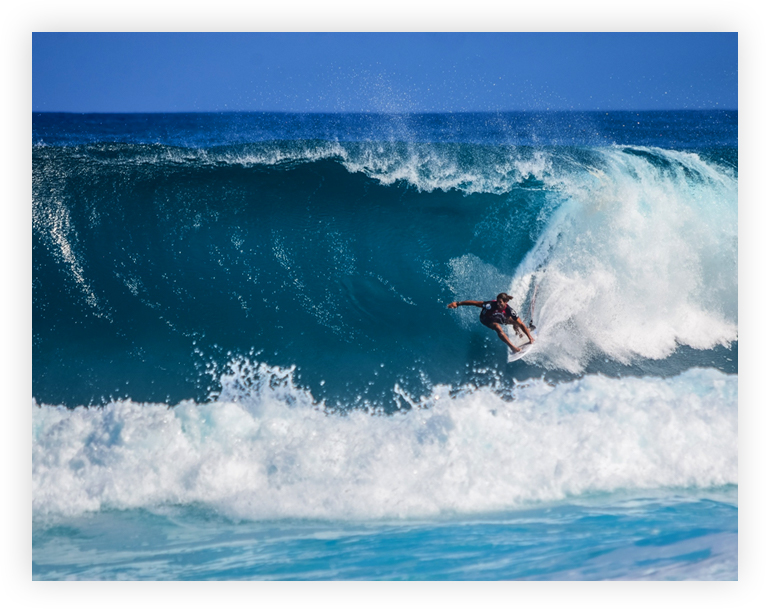
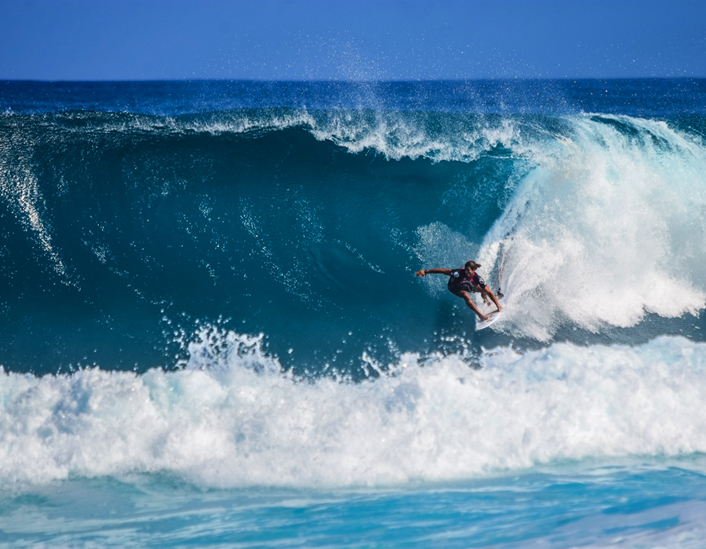
set media overal style

diff --git a/src/index.html b/src/index.html
@@ -67,7 +67,8 @@
                             <div class="c-slider__content">
                                 <p class="u-league u-league--blue">your</p>
                                 <h3 class="c-slider__title">beautiful escape</h3>
-                                <p class="c-slider__cap">One of the greatest things about the sport of surfing is that you need only three
+                                <p class="c-slider__cap">One of the greatest things about the sport of surfing is that
+                                    you need only three
                                     things: your body, a surfboard and a wave.</p>
                             </div>
                             <div class="c-slider__img">
@@ -109,7 +110,8 @@
         <section class="o-section c-section--quote">
             <div class="o-section__wrapper">
                 <div class="c-quote">
-                    <p class="c-quote__text">Surfing is the most blissful experience you can have on this planet, a taste of heaven.</p>
+                    <p class="c-quote__text">Surfing is the most blissful experience you can have on this planet, a
+                        taste of heaven.</p>
                     <p class="c-quote__author">John McCarthy</p>
                     <span class="c-vLine"></span>
                 </div>
@@ -120,20 +122,27 @@
         <section class="o-section c-section--media">
             <div class="o-section__wrapper">
                 <div class="c-media">
-                    <div class="c-media__overlay">
-                        <img src="./images/overlay-img.jpg" alt="surfing">
-                        <span class="c-play">
+                    <div class="c-media__item">
+                        <div class="c-media__img">
+                            <img src="./images/media-img.jpg" alt="media">
+                        </div>
+                        <div class="c-media__info">
+                            <p class="c-media__text">By better understanding the various aspects of surfing, you will
+                                improve faster and have
+                                more
+                                fun in the water.</p>
+                            <a href="#" class="c-link">read more</a>
+                        </div>
+                    </div>
+                    <div class="c-media__item c-media__item--overlay">
+                        <div class="c-media__img"><img src="./images/overlay-img.jpg" alt="surfing"></div>
+                        <span class="c-media__play">
                             <svg xmlns="http://www.w3.org/2000/svg" xmlns:xlink="http://www.w3.org/1999/xlink"
                                 width="14px" height="17px">
                                 <path fill-rule="evenodd" fill="rgb(255, 255, 255)"
                                     d="M13.709,8.473 L0.348,16.187 L0.348,0.759 L13.709,8.473 Z" />
                             </svg>
                         </span>
-                    </div>
-                    <div class="c-media__underlay">
-                        <img src="./images/media-img.jpg" alt="media">
-                        <p>By better understanding the various aspects of surfing, you wil</p>
-                        <a href="#" class="c-link">read more</a>
                     </div>
                 </div>
             </div>

diff --git a/src/styles/components/_media.scss b/src/styles/components/_media.scss
@@ -1,0 +1,59 @@
+.c-section--media {
+  padding: 5em;
+}
+
+.c-media {
+  display: grid;
+  grid-template-columns: repeat(12, 1fr);
+  align-items: center;
+}
+
+.c-media__item {
+  grid-column-start: 1;
+  grid-column-end: 7;
+  grid-row-start: 1;
+  display: flex;
+  flex-direction: column;
+  align-items: center;
+
+  &--overlay {
+    grid-column-start: 6;
+    grid-column-end: 13;
+    position: relative;
+  }
+}
+
+.c-media__img {
+  box-shadow: 0px 10px 15px rgba(0, 0, 0, 0.1);
+  width: 100%;
+  img {
+      width: 100%;
+  }
+}
+
+.c-media__text {
+  color: #616161;
+  opacity: .65;
+  font-family: $poppins;
+  @include font-size(14px);
+}
+
+.c-media__play {
+  position: absolute;
+  display: flex;
+  align-items: center;
+  justify-content: center;
+  top: 0;
+  bottom: 0;
+  border-radius: 100%;
+  background-color: $primary-color;
+  box-shadow: 0px 10px 15px rgba(0, 0, 0, 0.1);
+  width: 4em;
+  height: 4em;
+  margin: auto;
+  padding-left: 4px;
+}
+
+.c-media__info {
+  padding: 3em 10em 6em 7em;
+}

diff --git a/src/styles/components/_link.scss b/src/styles/components/_link.scss
@@ -1,0 +1,16 @@
+.c-link {
+  @include text-league;
+  padding-bottom: 0.5em;
+  position: relative;
+
+  &:before {
+    content: "";
+    position: absolute;
+    left: 0;
+    bottom: 0;
+    width: calc(100% - 0.6em); // a hack to deal with last letter spacing
+    border-bottom: 2px solid $primary-color;
+  }
+}
+
+

diff --git a/src/styles/elements/_defaults.scss b/src/styles/elements/_defaults.scss
@@ -7,7 +7,8 @@ html {
 
 body {
   color: #000;
-  background: #fff;
+  background-color: #fff;
+  // background-image: url(../images/line.png);
 }
 
 .main {
@@ -18,4 +19,8 @@ a {
   color: #0b0c11;
   text-decoration: none;
   transition: 0.2s;
+}
+
+img {
+  max-width: 100%;
 }

diff --git a/src/styles/tools/_tools.aliases.scss b/src/styles/tools/_tools.aliases.scss
@@ -6,7 +6,7 @@ $global-line-height:        24px;
 	font-family: $league;
     letter-spacing: .6em;
     text-transform: uppercase;
-    @include font-size(12px);
+    @include font-size(10px);
 }
 
 @mixin font-size($font-size, $line-height: auto, $important: false) {

diff --git a/src/styles/main.scss b/src/styles/main.scss
@@ -54,6 +54,7 @@
 @import 'components/hero';
 @import 'components/quote';
 @import 'components/vLine';
+@import 'components/media';
 // PARTIALS
 @import 'partials/header';
 @import 'partials/footer';
